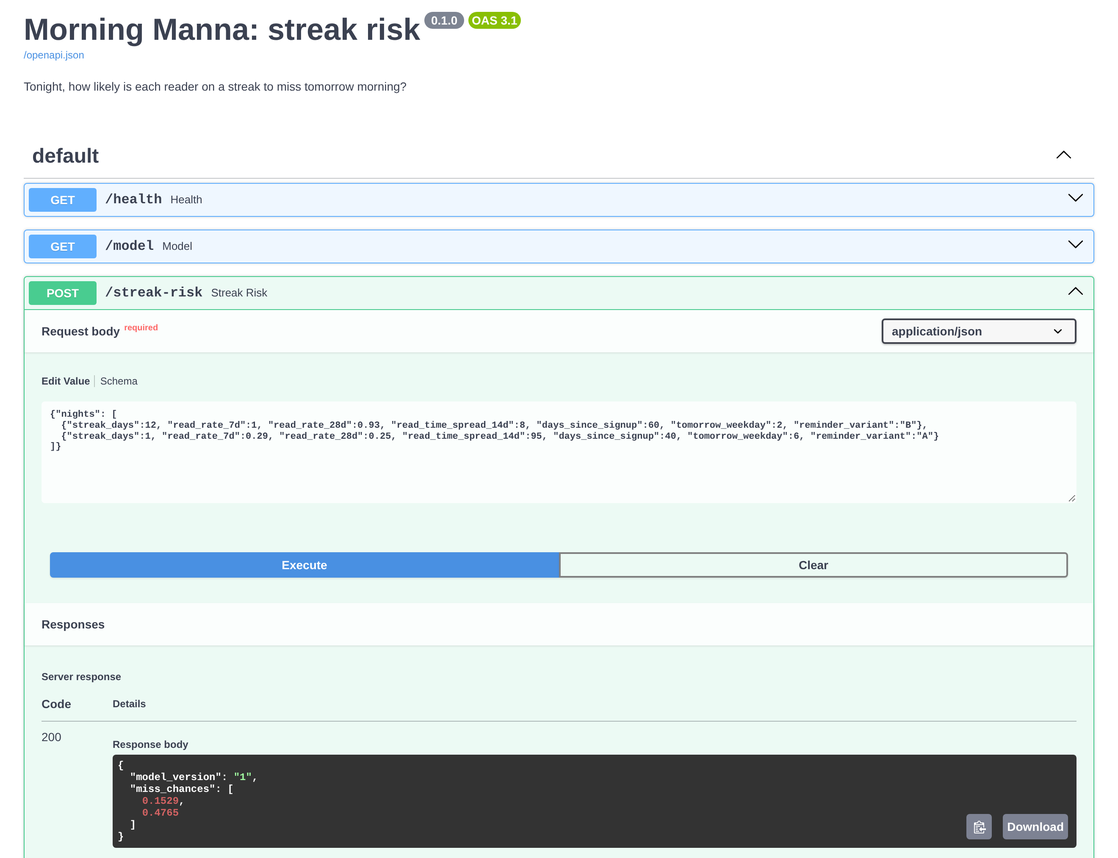
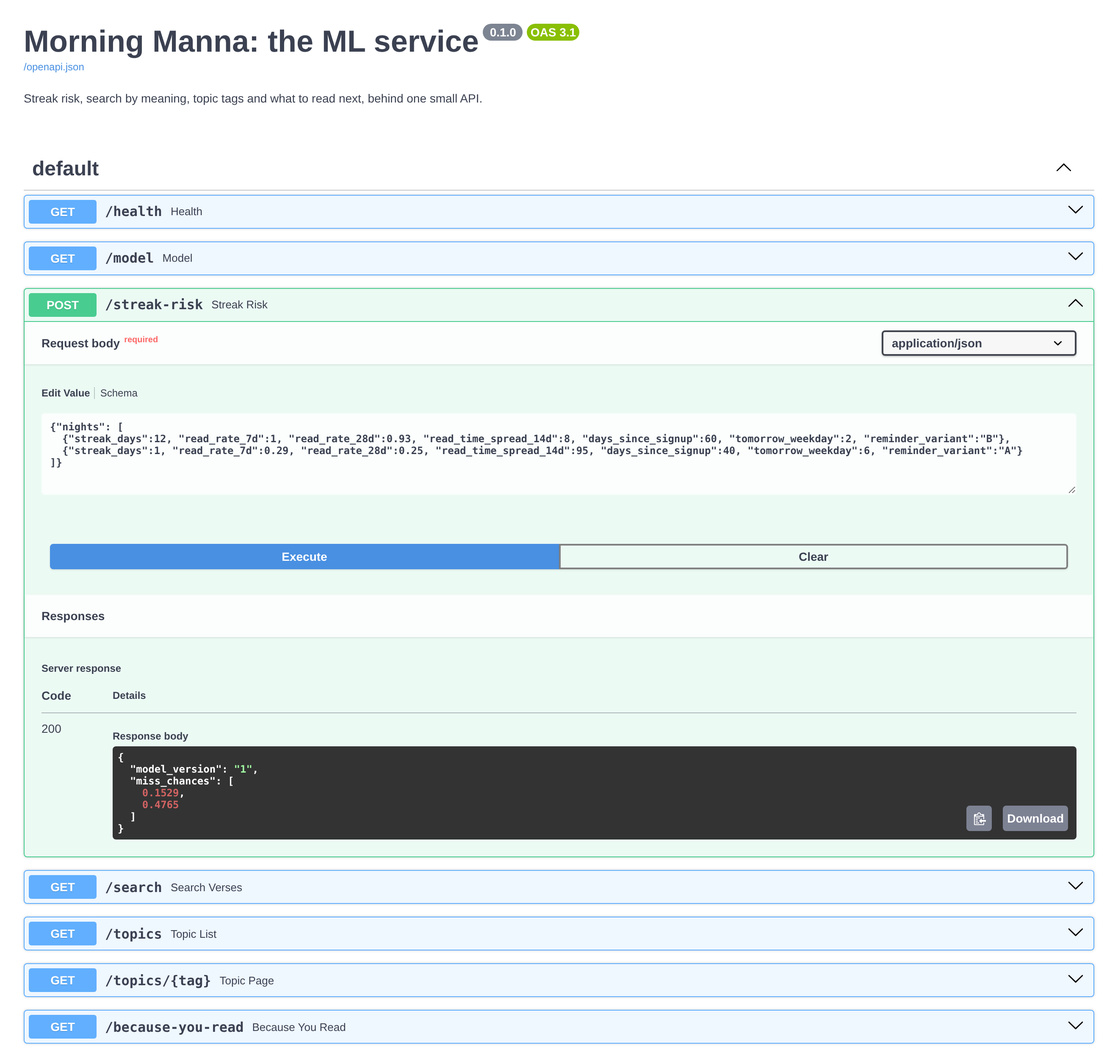
Make the docs match the code, and keep the app's pages clear of Android's navigation bar (Card 9c) (#84)

diff --git a/mobile/src/app/settings.tsx b/mobile/src/app/settings.tsx
@@ -12,6 +12,7 @@ import {
   Text,
   View,
 } from 'react-native';
+import { useSafeAreaInsets } from 'react-native-safe-area-context';
 
 import { getMe, getTranslations, type Me, type Translation, updateMe } from '@/api/client';
 import { type TextSize, type ThemeName, useAppearance } from '@/appearance';
@@ -57,6 +58,8 @@ function Option({ label, chosen, disabled, onPress }: OptionProps) {
 export default function Settings() {
   const { token } = useSession();
   const { colors, passage, theme, setTheme, textSize, setTextSize } = useAppearance();
+  // The app draws under Android's navigation bar, so the page ends with room for it
+  const insets = useSafeAreaInsets();
 
   const [me, setMe] = useState<Me | null>(null);
   const [translations, setTranslations] = useState<Translation[]>([]);
@@ -114,7 +117,7 @@ export default function Settings() {
   const heading = [styles.heading, { color: colors.faint }];
 
   return (
-    <ScrollView contentContainerStyle={styles.page}>
+    <ScrollView contentContainerStyle={[styles.page, { paddingBottom: 24 + insets.bottom }]}>
       <Text style={heading}>Wake time</Text>
       <View style={styles.row}>
         <Text style={[styles.value, { color: colors.text }]}>{me.wake_time.slice(0, 5)}</Text>

diff --git a/mobile/src/app/history.tsx b/mobile/src/app/history.tsx
@@ -3,6 +3,7 @@
 import { useFocusEffect } from 'expo-router';
 import { useCallback, useState } from 'react';
 import { ActivityIndicator, ScrollView, StyleSheet, Text, View } from 'react-native';
+import { useSafeAreaInsets } from 'react-native-safe-area-context';
 
 import { getHistory, type History } from '@/api/client';
 import { useAppearance } from '@/appearance';
@@ -20,6 +21,8 @@ const WEEKDAYS = ['Mon', '', 'Wed', '', 'Fri', '', ''];
 export default function HistoryScreen() {
   const { token } = useSession();
   const { colors } = useAppearance();
+  // The app draws under Android's navigation bar, so the page ends with room for it
+  const insets = useSafeAreaInsets();
 
   const [history, setHistory] = useState<History | null>(null);
   const [error, setError] = useState<string | null>(null);
@@ -47,7 +50,7 @@ export default function HistoryScreen() {
   if (labels[1]) labels[0] = '';
 
   return (
-    <ScrollView contentContainerStyle={styles.page}>
+    <ScrollView contentContainerStyle={[styles.page, { paddingBottom: 24 + insets.bottom }]}>
       <Text style={[styles.total, { color: colors.text }]}>
         {history.days.length} {history.days.length === 1 ? 'morning' : 'mornings'}
       </Text>

diff --git a/mobile/src/offline-today.tsx b/mobile/src/offline-today.tsx
@@ -4,6 +4,7 @@
 // this phone, and Mark as read is kept here until it can be sent.
 
 import { Button, ScrollView, StyleSheet, Text, View } from 'react-native';
+import { useSafeAreaInsets } from 'react-native-safe-area-context';
 
 import type { Passage } from '@/api/client';
 import { useAppearance } from '@/appearance';
@@ -19,13 +20,15 @@ type Props = {
 
 export function OfflineToday({ snapshot, pending, onMarkRead, onRetry }: Props) {
   const { colors, passage: passageStyle } = useAppearance();
+  // The app draws under Android's navigation bar, so the page ends with room for it
+  const insets = useSafeAreaInsets();
 
   const next = nextOfflinePassage(snapshot, pending);
   const doneToday = readToday(snapshot, pending);
   const { plan_name, total_days } = snapshot.upcoming;
 
   return (
-    <ScrollView contentContainerStyle={styles.page}>
+    <ScrollView contentContainerStyle={[styles.page, { paddingBottom: 24 + insets.bottom }]}>
       <View style={[styles.banner, { backgroundColor: colors.card }]}>
         <Text style={[styles.bannerText, { color: colors.text }]}>
           📴 Offline: reading the copy saved on this phone

diff --git a/mobile/src/app/index.tsx b/mobile/src/app/index.tsx
@@ -11,6 +11,7 @@ import {
   Text,
   View,
 } from 'react-native';
+import { useSafeAreaInsets } from 'react-native-safe-area-context';
 
 import {
   ApiError,
@@ -65,6 +66,8 @@ type Offline = { snapshot: Snapshot; pending: PendingReading[] };
 export default function TodayScreen() {
   const { token, reset } = useSession();
   const { colors, passage } = useAppearance();
+  // The app draws under Android's navigation bar, so the page ends with room for it
+  const insets = useSafeAreaInsets();
 
   const [data, setData] = useState<Loaded | null>(null);
   const [error, setError] = useState<ApiError | Error | null>(null);
@@ -246,7 +249,7 @@ export default function TodayScreen() {
 
   return (
     <ScrollView
-      contentContainerStyle={styles.page}
+      contentContainerStyle={[styles.page, { paddingBottom: 24 + insets.bottom }]}
       refreshControl={<RefreshControl refreshing={refreshing} onRefresh={refresh} />}
     >
       <Text style={[styles.streak, { color: colors.text }]}>

diff --git a/CLAUDE.md b/CLAUDE.md
@@ -12,8 +12,8 @@ Morning Manna: a daily Bible-reading app (one short passage each morning, in the
 | `mobile/` | Android app | Expo SDK 57, React Native, TypeScript, Expo Router |
 | `pipelines/` | Lake → warehouse loader (package `ingest`) and Airflow DAGs | boto3, psycopg 3, Airflow 3.3 |
 | `analytics/` | dbt models (staging → intermediate → marts) | dbt-core 1.12, dbt-postgres |
-| `ml/` | `simulate.py`: deterministic synthetic readers; `streak_risk.py`: the streak-at-risk models; `model_registry.py`: MLflow tracking and the registry (Phase 7) | NumPy, scikit-learn, XGBoost (`xgboost-cpu`), LightGBM, MLflow |
-| `docs/` | `ERD.md` (database schema), screenshots | |
+| `ml/` | `simulate.py`: deterministic synthetic readers; Phase 7's models (`streak_risk.py`, `personas.py`, `reminder_time.py`), their registry (`model_registry.py`), service (`serve.py`) and nightly scoring (`score_tonight.py`); Phase 8's language work (`verse_embeddings.py`, `search.py`, `topics.py`, `recommend.py`) | NumPy, scikit-learn, XGBoost (`xgboost-cpu`), LightGBM, MLflow, FastEmbed, pgvector |
+| `docs/` | `ERD.md` (database schema), `analysis/` (the write-ups), `images/` (screenshots and charts) | |
 
 ## How data flows
 
@@ -57,7 +57,7 @@ Airflow retrain_models (Sundays 02:00 UTC): ml/model_registry.py ──> MLflow 
 
 ## Commands
 
-Local services (from repo root): `docker compose up -d db lake` (Postgres on 5432, S3 on 8333). Everything: `docker compose up -d --build` (Airflow on 127.0.0.1:8080, MLflow on 127.0.0.1:5000, the ML service on 127.0.0.1:8001; Card 9). Airflow, MLflow and the ML service share one image (`pipelines/Dockerfile`, ~3.1 GB: venvs install with `pip --no-compile`, and only the ml venv deletes its libraries' bundled `tests/`, in the same RUN layer; never do that in the dbt venv, where `tests/` holds dbt's built-in test macros); the models' venv also runs the MLflow server, whose `tracking-server` extra is the only place boto3 is declared (clients reach MLflow over HTTP). After a first start, trigger `retrain_models` once to crown a champion. Memory is the tight resource on Kai's 8 GB laptop (WSL had 3.7 GB; the stack peaks ~3.4 GB): Airflow runs `PARALLELISM: 2`, the retrain task has `max_active_tis_per_dag=1` (leftover runs once started three trainings at once and all died), and `streak_risk.TUNING_JOBS` (env, default 2) caps tuning workers (one per core used ~200 MB each); results don't depend on it. Measure memory with docker stats before and after any change to the stack. The MLflow server's job workers are off (`MLFLOW_SERVER_ENABLE_JOB_EXECUTION=false`: they cost ~1.5 GB), and the lake runs with `-volume.max=100` (SeaweedFS's default 8 volumes can't hold a second bucket; a full limit or disk shows as S3 "InternalError").
+Local services (from repo root): `docker compose up -d db lake` (Postgres on 5432, S3 on 8333). Everything: `docker compose up -d --build` (Airflow on 127.0.0.1:8080, MLflow on 127.0.0.1:5000, the ML service on 127.0.0.1:8001; Card 9). Airflow, MLflow and the ML service share one image (`pipelines/Dockerfile`, ~3.1 GB: venvs install with `pip --no-compile`, and only the ml venv deletes its libraries' bundled `tests/`, in the same RUN layer; never do that in the dbt venv, where `tests/` holds dbt's built-in test macros); the models' venv also runs the MLflow server, whose `tracking-server` extra is the only place boto3 is declared (clients reach MLflow over HTTP). After a first start, trigger `retrain_models` once to crown a champion. Memory is the tight resource on Kai's 8 GB laptop (WSL now has 4.5 GB, up from its default 3.7 GB; the stack peaks ~3.4 GB): Airflow runs `PARALLELISM: 2`, the retrain task has `max_active_tis_per_dag=1` (leftover runs once started three trainings at once and all died), and `streak_risk.TUNING_JOBS` (env, default 2) caps tuning workers (one per core used ~200 MB each); results don't depend on it. Measure memory with docker stats before and after any change to the stack. The MLflow server's job workers are off (`MLFLOW_SERVER_ENABLE_JOB_EXECUTION=false`: they cost ~1.5 GB), and the lake runs with `-volume.max=100` (SeaweedFS's default 8 volumes can't hold a second bucket; a full limit or disk shows as S3 "InternalError").
 
 ### Backend (`cd backend`)
 

diff --git a/README.md b/README.md
@@ -1,7 +1,7 @@
 
 
 # Morning Manna
-![Morning Manna](docs/images/hero.png)
+![Morning Manna: a smiling robot with a halo holds a bowl of manna on a cloud. Daily bread for the soul, served by a full data platform.](docs/images/hero.png)
 
 Hihi! OG here! smiley day to ya! This project will create a daily Bible reading app for working class people: you can set your wake time, get reminders in the morning,
 read one short passage, and other features! 
@@ -10,17 +10,15 @@ This is also a full data platform: Contains everything from Python API, ETL pipe
 and machine learning models for streak-risk prediction, reader personas, and passage
 recommendations.
 
-**status Early-Dev**
-
 ## Da Stack
 
 | Layer | Tools |
 |---|---|
 | Mobile | React Native (Expo), TypeScript |
 | API | Python, FastAPI, PostgreSQL |
-| Data | pandas, Airflow, dbt, AWS S3 |
-| ML / NLP | scikit-learn, XGBoost, LightGBM, MLflow, sentence embeddings, pgvector, LLM API |
-| Ops | Docker, GitHub Actions, AWS(mayyybe we'll see) |
+| Data | pandas, Airflow, dbt, SeaweedFS (S3) |
+| ML / NLP | scikit-learn, XGBoost, LightGBM, MLflow, sentence embeddings, pgvector, LLM API (planned) |
+| Ops | Docker, GitHub Actions, AWS (next up) |
 
 ## Repository layout
 
@@ -30,18 +28,16 @@ mobile/      React Native (Expo) app
 pipelines/   ETL jobs and Airflow DAGs
 analytics/   dbt models and dashboard
 ml/          models and experiments
-docs/        blueprint and design notes
+docs/        database diagram, write-ups and pictures
 ```
 
-## What will run locally
+## Run it locally
 
-```
-bash, Docker, cd mobile && npm install && expo start
+You need Docker. `docker compose up -d --build` starts the whole platform ([below](#-the-models-run-themselves)), and each folder's README has its own quick start: [backend](backend/README.md#quick-start) for the API and the Bible, [mobile](mobile/README.md#run-it) for the app on your phone, then [pipelines](pipelines/README.md), [analytics](analytics/README.md) and [ml](ml/README.md).
 
-```
 The text comes from the King James Version and the American Standard Version (both public domain).
 
-**Status: the API, the Android app, the data platform (lake, loader, Airflow, dbt, and an MLflow model registry) the first analytics (two notebooks, a dashboard and the first A/B test), the machine learning (streak risk, reader personas and reminder times) and the first NLP steps (verse embeddings, search by meaning, topic tags and what to read next) are built. See [backend/README.md](backend/README.md), [mobile/README.md](mobile/README.md), [pipelines/README.md](pipelines/README.md), [analytics/README.md](analytics/README.md) and [ml/README.md](ml/README.md).**
+**Status: the API, the Android app, the data platform (lake, loader, Airflow, dbt, and an MLflow model registry), the first analytics (three notebooks, a dashboard and the first A/B test), the machine learning (streak risk, reader personas and reminder times) and the first NLP steps (verse embeddings, search by meaning, topic tags and what to read next) are built. See [backend/README.md](backend/README.md), [mobile/README.md](mobile/README.md), [pipelines/README.md](pipelines/README.md), [analytics/README.md](analytics/README.md) and [ml/README.md](ml/README.md).**
 
 ## 📊 The reading dashboard
 
@@ -91,7 +87,7 @@ Ask in your own words, and get the verses that answer, even when they share no w
 
 ## 🏷 Topic tags
 
-![Each topic's first screen of 20 verses: hope 85% right, praise and loving others 80%, down to worry and anxiety at 0%](docs/images/topics-by-tag.png)
+![Each topic's first screen of 20 verses: hope 85% right, praise 80%, loving others 80%, down to worry and anxiety at 0%](docs/images/topics-by-tag.png)
 
 Every verse is tagged with what it's about, from 30 topics a reader would recognise, so the app can offer "more on patience" or a page of verses for hard times. The answer key is **Nave's Topical Bible** (1896), mapped to our tags before any tagger ran. A model trained on Nave's examples wins, graded on whole books it never saw: hope gets **85%** of its first screen right. Worry and anxiety fails, because Nave's files it under worldly care, and the write-up shows why. See [the write-up](docs/analysis/topic-tags.md).
 

diff --git a/ml/README.md b/ml/README.md
@@ -108,7 +108,7 @@ The champion is re-scored rather than trusted from its old tag, so the compariso
 ```bash
 # From the repo root, after dbt build
 pip install -e "ml[models,tracking]"     # MLflow, about 113 MB more
-python ml/model_registry.py              # trains, tracks and registers (about 30 seconds)
+python ml/model_registry.py              # trains, tracks and registers (a little longer than streak_risk.py)
 
 # Then look around, at http://localhost:5000
 MLFLOW_DISABLE_TELEMETRY=true mlflow ui --backend-store-uri sqlite:///ml/mlruns/mlflow.db
@@ -132,7 +132,7 @@ MLFLOW_DISABLE_TELEMETRY=true mlflow ui --backend-store-uri sqlite:///ml/mlruns/
 | `GET /topics`, `GET /topics/{tag}` | The 30 topic tags, and a topic's best verses (Card 8.3, below) |
 | `GET /because-you-read` | After a verse, a chapter or a passage, the 10 verses a reader might want next (Card 8.4, below) |
 
-![The service's interactive docs page: the three endpoints, and a request for two readers. A steady reader (a 12-day streak, read every day this week) gets a 15% chance of missing tomorrow; a wobbly one (a 1-day streak, read 2 days in 7, reading time wandering by 95 minutes) gets 48%. Both answers name model version 1.](../docs/images/streak-service.png)
+![The ML service's interactive docs page: its seven endpoints, and a request for two readers. A steady reader (a 12-day streak, read every day this week) gets a 15% chance of missing tomorrow; a wobbly one (a 1-day streak, read 2 days in 7, reading time wandering by 95 minutes) gets 48%. Both answers name model version 1.](../docs/images/streak-service.png)
 
 ```bash
 # From the repo root, after python ml/model_registry.py has crowned a champion
@@ -257,9 +257,9 @@ curl "http://localhost:8001/search?q=verses+about+worry&k=5"
 
 Every verse is tagged with what it's about, from 30 topics a reader would recognise: hope, patience, comfort in hard times, forgiving others, money and greed, and more. [topics.py](topics.py) races three taggers and stores the winner's tags in `ml.verse_topics`, for topic pages in the app.
 
-![Each topic's first screen of 20 verses: hope 85% right, praise and loving others 80%, down to worry and anxiety at 0%](../docs/images/topics-by-tag.png)
+![Each topic's first screen of 20 verses: hope 85% right, praise 80%, loving others 80%, down to worry and anxiety at 0%](../docs/images/topics-by-tag.png)
 
-**The answer key is Nave's Topical Bible** (1896, public domain; the CSV from [BibleData](https://github.com/BradyStephenson/bible-data), CC BY 4.0). Each tag was mapped to Nave's teaching headings before any tagger ran, giving 5,529 tagged verses. **A logistic regression on the BGE vectors wins every measure**, graded on whole books it never saw. Worry and anxiety fails, because Nave's files it under worldly care (food, clothing, barns), and the write-up shows why. The whole story: [the write-up](../docs/analysis/topic-tags.md).
+**The answer key is Nave's Topical Bible** (1896, public domain; the CSV from [BibleData](https://github.com/BradyStephenson/bible-data), CC BY 4.0). Each tag was mapped to Nave's teaching headings before any tagger ran, giving 5,529 tags on 4,487 verses. **A logistic regression on the BGE vectors wins every measure**, graded on whole books it never saw. Worry and anxiety fails, because Nave's files it under worldly care (food, clothing, barns), and the write-up shows why. The whole story: [the write-up](../docs/analysis/topic-tags.md).
 
 ```bash
 # From the repo root, with the database up and the verses embedded

diff --git a/pipelines/README.md b/pipelines/README.md
@@ -4,7 +4,7 @@ The jobs that move the app's events from the data lake into the warehouse, and t
 
 Python 3.11+ · boto3 · psycopg 3 · Airflow 3.3 · SeaweedFS (S3)
 
-![The daily_events DAG in Airflow: load_events, then dbt_build](../docs/images/airflow-graph.png)
+![The daily_events DAG in Airflow: load_events, then dbt_build, then score_tonight](../docs/images/airflow-graph.png)
 
 ## How an event travels
 
@@ -12,6 +12,7 @@ Python 3.11+ · boto3 · psycopg 3 · Airflow 3.3 · SeaweedFS (S3)
 2. **The API** stores them in Postgres, then copies the batch to the lake as one JSON-lines file ([backend/app/lake.py](../backend/app/lake.py)). If the lake is down, the request still succeeds.
 3. **Every night at 00:30 UTC**, Airflow's `daily_events` loads yesterday's lake folder into the warehouse table `raw.events`.
 4. **Then dbt** rebuilds the retention tables from it (see [analytics/README.md](../analytics/README.md)).
+5. **Then the champion model** scores tonight's streaks and flags who gets a nudge, into `ml.streak_risk_scores` (see [ml/README.md](../ml/README.md#-tonights-scores-card-75)).
 
 ## The lake
 
@@ -55,7 +56,7 @@ The first build takes a few minutes. Then open http://localhost:8080. There's no
 |---|---|---|
 | `daily_events` | 00:30 UTC every day | `load_events` (yesterday's lake folder into `raw.events`), then `dbt_build`, then `score_tonight` (tonight's streak risk, from the champion model, into `ml.streak_risk_scores`) |
 | `ingest_scripture` | By hand | The Bible pipeline from [backend/README.md](../backend/README.md#data-pipeline) |
-| `retrain_models` | 02:00 UTC on Sundays | Retrains the streak-at-risk models on the latest three weeks held out, logs the race to MLflow, and crowns the best only if it beats the champion ([ml/README.md](../ml/README.md#-the-model-registry-in-docker-card-9)) |
+| `retrain_models` | 02:00 UTC on Sundays | Retrains the streak-at-risk models, holding out the latest three weeks to grade them, logs the race to MLflow, and crowns the best only if it beats the champion ([ml/README.md](../ml/README.md#-the-model-registry-in-docker-card-9)) |
 
 New DAGs start paused: switch one on with the toggle beside its name. **After the first start, trigger `retrain_models` once by hand:** it crowns the first champion, and `score_tonight` fails loudly until there is one.
 
@@ -92,7 +93,7 @@ docker compose exec airflow bash -c "pip install -q pytest && python -m pytest -
 On every push, GitHub Actions runs three jobs for this folder:
 
 1. **pipelines:** `ruff check .` and the loader's tests.
-2. **airflow:** builds the image, checks that each job's Python can load its code (the models' Python must also load LightGBM and the MLflow server's lake and database drivers), and runs the 8 DAG tests inside it.
+2. **airflow:** builds the image, checks that each job's Python can load its code (the models' Python must also load LightGBM and the MLflow server's lake and database drivers), and runs the 9 DAG tests inside it.
 3. **analytics:** builds the whole warehouse from nothing, through this loader (see [analytics/README.md](../analytics/README.md)).
 
 ## Layout

diff --git a/backend/README.md b/backend/README.md
@@ -73,20 +73,23 @@ curl -s -X POST localhost:8000/events -H "Authorization: Bearer $TOKEN" \
 
 ## Endpoints
 
-Every endpoint except `GET /health`, `GET /plans` and `POST /users` needs `Authorization: Bearer <token>`.
+Every endpoint except `GET /health`, `GET /plans`, `GET /translations` and `POST /users` needs `Authorization: Bearer <token>`.
 
 | Method | Path | What it does |
 |---|---|---|
 | GET | `/health` | Liveness check |
 | GET | `/plans` | List the reading plans |
+| GET | `/translations` | List the translations a reader can choose (KJV, ASV) |
 | POST | `/users` | Sign up a device and return its token (rate-limited) |
 | GET | `/users/me` | The reader's settings, and which reminder wording they get (`A` or `B`) |
-| PATCH | `/users/me` | Change time zone or wake time |
+| PATCH | `/users/me` | Change time zone, wake time or translation |
 | POST | `/users/me/plans` | Start a plan |
 | GET | `/today` | Today's passage, in the reader's translation |
-| POST | `/readings` | Open a reading for the current day |
-| POST | `/readings/{id}/complete` | Mark it read and move to the next day |
+| GET | `/today/upcoming` | The next passages, from the reader's current day (7 by default, up to 14) |
+| POST | `/readings` | Open a reading for the current day (`opened_at` optional, for offline reads) |
+| POST | `/readings/{id}/complete` | Mark it read and move to the next day (`completed_at` optional) |
 | GET | `/users/me/streak` | Current and longest streak |
+| GET | `/users/me/history` | The days the reader finished a reading (the last 13 weeks by default, up to a year) |
 | POST | `/events` | Store a batch of app events, and copy it to the data lake |
 
 ## Design decisions
@@ -135,12 +138,17 @@ On every push, GitHub Actions runs:
 ```
 app/
   main.py        the FastAPI app: routers, logging middleware
-  routers/       one file per area: users, plans, today, readings, events
+  routers/       one file per area: users, plans, translations, today, readings, events
   models.py      the database tables (SQLAlchemy)
   schemas.py     request and response shapes (Pydantic)
+  config.py      settings, from environment variables or .env
+  db.py          the database engine and sessions
   auth.py        Bearer-token authentication
+  security.py    how tokens are made, and stored as SHA-256 hashes
+  clock.py       dates and times in the reader's own time zone
   progress.py    which plan and day a reader is on
   streaks.py     streak calculation
+  experiment.py  which reminder wording (A or B) each reader gets
   ratelimit.py   sliding-window rate limiter
   logs.py        structured JSON request logs
   lake.py        copies each event batch to the data lake

diff --git a/docs/ERD.md b/docs/ERD.md
@@ -1,6 +1,6 @@
 # Morning Manna – Entity Relationship Diagram
 
-How the nine tables connect. Source of truth: `backend/app/models.py`.
+How the ten tables connect. Source of truth: `backend/app/models.py`. The scripture pipeline's log, `etl_runs`, links to no other table, so it has [a diagram of its own](#the-pipelines-log).
 
 ```mermaid
 erDiagram
@@ -47,7 +47,7 @@ erDiagram
     reading_plans {
         int id PK
         string name UK
-        text description
+        string description
     }
 
     plan_days {
@@ -64,6 +64,7 @@ erDiagram
     users {
         int id PK
         string device_id UK
+        string token_hash UK "SHA-256 of the token"
         string timezone
         time wake_time
         int translation_id FK
@@ -106,3 +107,22 @@ Mermaid can only mark single columns as `UK`. These rules span several columns:
 | `verses` | `translation_id, book_id, chapter, verse` | Each verse appears once per translation |
 | `plan_days` | `plan_id, day_number` | Each plan has one row per day |
 | `user_plans` | `user_id, plan_id` | A reader joins each plan only once |
+
+## The pipeline's log
+
+`python -m app.etl` adds one row each time it runs: what it read, loaded and rejected, and any error.
+
+```mermaid
+erDiagram
+    etl_runs {
+        int id PK
+        string pipeline
+        string status
+        datetime started_at
+        datetime finished_at "nullable"
+        int rows_read
+        int rows_loaded
+        int rows_rejected
+        text error "nullable"
+    }
+```

diff --git a/docs/analysis/reminder-experiment-results.md b/docs/analysis/reminder-experiment-results.md
@@ -116,7 +116,7 @@ One practice run can be lucky, so [drill.py](../../analytics/experiments/drill.p
 ## 🧭 What this means for real readers
 
 - **The analysis can be trusted, with one caveat.** On data where the answer was known, it found the right winner, and across 1,200 drills it found real effects 87.5% of the time. But it raises false alarms about 7% of the time, not 5%, so a result with p just under 0.05 deserves a second look.
-- **My "partly luck" worry above was too gloomy.** I wrote it before the reveal, and I've left it as it was. The true effect, +5.9 points, is bigger than the +5 the test was sized for, so the test had a better than 80% chance of spotting it.
+- **My "partly luck" worry above was too gloomy.** I wrote it before the reveal, and I've left it as it was. The true effect, +5.5 points (+5.9 in the reveal's one long run), is bigger than the +5 the test was sized for, so the test had a better than 80% chance of spotting it.
 - **The size of a win is the uncertain part.** If a real test needs a sharp number rather than just a winner, it needs more readers than 1,508 a group.
 - **The pictures:** the charts on this page come from [charts.py](../../analytics/experiments/charts.py), and [notebook 02](../../analytics/notebooks/02_reminder_experiment.ipynb) draws them from the warehouse on every CI run.
 - **For Tableau Public:** [analytics/tableau/](../../analytics/tableau/) holds the same story as three tidy CSV files, for people who will never open a notebook.

diff --git a/docs/README.md b/docs/README.md
@@ -1,5 +1,18 @@
-# The plan you're following, and design notes
+# Design notes and write-ups
 
 - [ERD.md](ERD.md): the app's tables and how they connect
-- [analysis/reminder-experiment.md](analysis/reminder-experiment.md): the reminder A/B test, planned before it runs
+- [images/](images/): the screenshots and charts the READMEs and write-ups show
+
+## The write-ups
+
+Each tells how one piece was built and graded, in the order the cards built them:
+
+- [analysis/reminder-experiment.md](analysis/reminder-experiment.md): the reminder A/B test, planned before it ran
 - [analysis/reminder-experiment-results.md](analysis/reminder-experiment-results.md): its result by those rules, and the reveal of the true effect
+- [analysis/streak-risk-model.md](analysis/streak-risk-model.md): four models race to tell who'll miss tomorrow morning
+- [analysis/reader-personas.md](analysis/reader-personas.md): the kinds of reader, found from their habits alone
+- [analysis/reminder-time.md](analysis/reminder-time.md): the best time for each reader's reminder
+- [analysis/verse-embeddings.md](analysis/verse-embeddings.md): every verse as a vector of its meaning
+- [analysis/semantic-search.md](analysis/semantic-search.md): search by meaning, graded on questions frozen first
+- [analysis/topic-tags.md](analysis/topic-tags.md): topic tags, graded against Nave's Topical Bible
+- [analysis/because-you-read.md](analysis/because-you-read.md): what to read next, graded against OpenBible's cross-references
